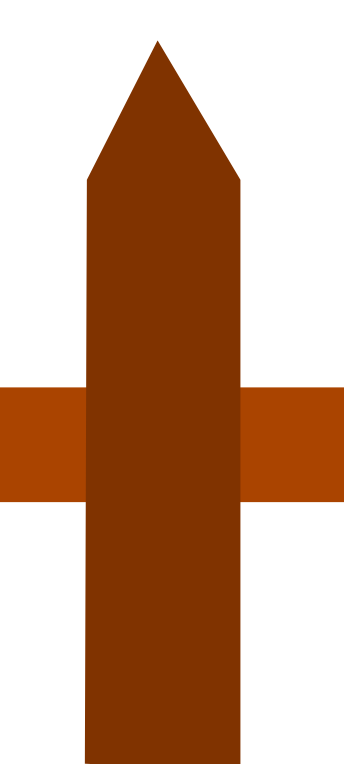
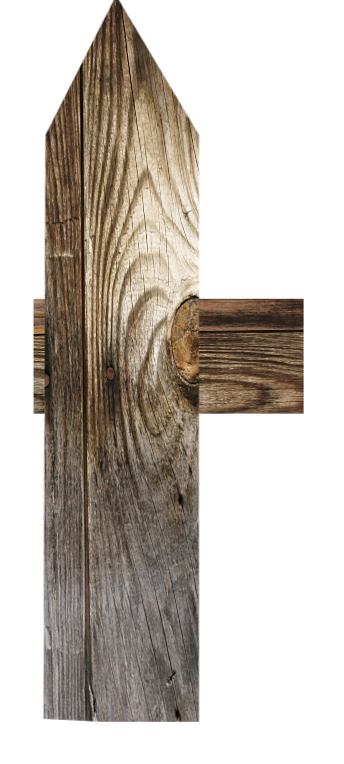
way better looking fence

diff --git a/public/stylesheets/style.css b/public/stylesheets/style.css
@@ -29,7 +29,7 @@ a {
   width: 300px;
   height: 764px;
   display: inline-block;
-  background-image: url(images/fencepost_sign.png);
+  background-image: url(images/fencepost_sign_wood.png);
   float:left;
 }
 
@@ -40,23 +40,23 @@ a {
   width: 260px;
   height: 764px;
   display: inline-block;
-  background-image: url(images/fencepost.png);
+  background-image: url(images/fencepost_empty.png);
   float:left;
 }
 
 .emptyform{
-  color: black;
-  width: 160px;
+  color: white;
+  width: 140px;
 }
 
 .fencegoal{
-  margin-top: 460px;
+  margin-top: 420px;
   width: 220px;
-  margin-left: 50px;
+  margin-left: 40px;
 }
 
 .newgoal{
   margin-top: 300px;
-  margin-left: 90px;
+  margin-left: 80px;
   text-align: left;
 }
